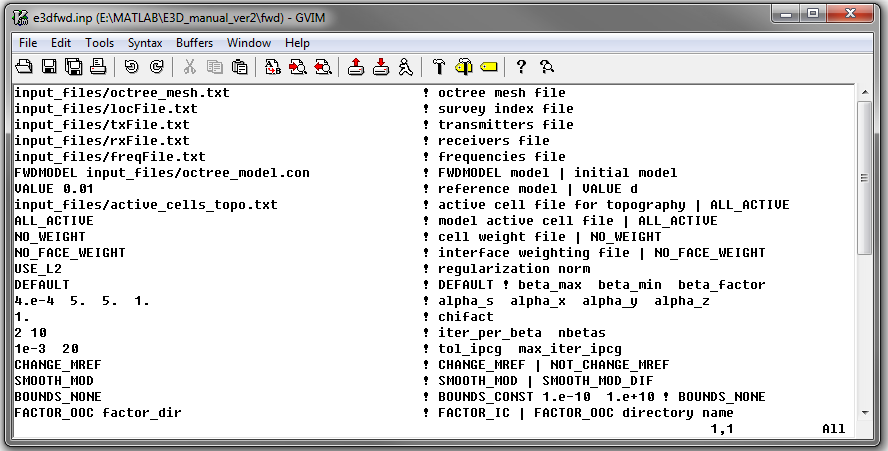
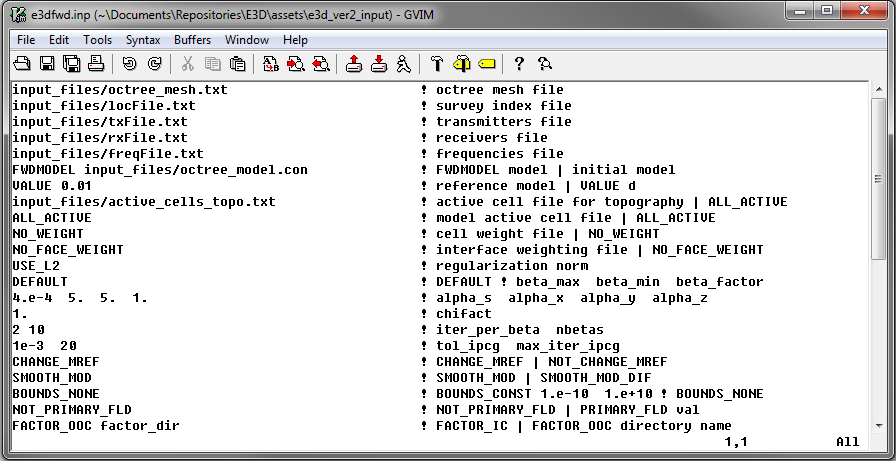
add primary field computation options

Changed region(s): [[0.0, 0.0, 1.0, 1.0], [0.152, 0.6519, 0.1824, 0.6829]]

diff --git a/content/inputfiles/inversion.rst b/content/inputfiles/inversion.rst
@@ -12,45 +12,47 @@ Both the forward and inverse problems are solved using the **e3d_v2.exe** execut
 +========+==============================================================+=========================================================================+
 | 1      |:ref:`Inversion Mesh<e3d_input_inv2_ln1>`                     | path to inversion mesh file                                             |
 +--------+--------------------------------------------------------------+-------------------------------------------------------------------------+
-| 2      |:ref:`Observations File<e3d_input_inv2_ln3>`                  | path to observations file                                               |
+| 2      |:ref:`Observations File<e3d_input_inv2_ln2>`                  | path to observations file                                               |
 +--------+--------------------------------------------------------------+-------------------------------------------------------------------------+
-| 3      |:ref:`Transmitters File<e3d_input_inv2_ln4>`                  | path to transmitters file                                               |
+| 3      |:ref:`Transmitters File<e3d_input_inv2_ln3>`                  | path to transmitters file                                               |
 +--------+--------------------------------------------------------------+-------------------------------------------------------------------------+
-| 4      |:ref:`Receivers File<e3d_input_inv2_ln5>`                     | path to receivers file                                                  |
+| 4      |:ref:`Receivers File<e3d_input_inv2_ln4>`                     | path to receivers file                                                  |
 +--------+--------------------------------------------------------------+-------------------------------------------------------------------------+
-| 5      |:ref:`Frequencies File<e3d_input_inv2_ln6>`                   | path to frequencies file                                                |
+| 5      |:ref:`Frequencies File<e3d_input_inv2_ln5>`                   | path to frequencies file                                                |
 +--------+--------------------------------------------------------------+-------------------------------------------------------------------------+
-| 6      |:ref:`Initial/FWD Model<e3d_input_inv2_ln7>`                  | initial model/forward model                                             |
+| 6      |:ref:`Initial/FWD Model<e3d_input_inv2_ln6>`                  | initial model/forward model                                             |
 +--------+--------------------------------------------------------------+-------------------------------------------------------------------------+
-| 7      |:ref:`Reference Model<e3d_input_inv2_ln8>`                    | reference model                                                         |
+| 7      |:ref:`Reference Model<e3d_input_inv2_ln7>`                    | reference model                                                         |
 +--------+--------------------------------------------------------------+-------------------------------------------------------------------------+
-| 8      |:ref:`Active Topography Cells<e3d_input_inv2_ln9>`            | topography                                                              |
+| 8      |:ref:`Active Topography Cells<e3d_input_inv2_ln8>`            | topography                                                              |
 +--------+--------------------------------------------------------------+-------------------------------------------------------------------------+
-| 9      |:ref:`Active Model Cells<e3d_input_inv2_ln10>`                | active model cells                                                      |
+| 9      |:ref:`Active Model Cells<e3d_input_inv2_ln9>`                 | active model cells                                                      |
 +--------+--------------------------------------------------------------+-------------------------------------------------------------------------+
-| 10     |:ref:`Cell Weights<e3d_input_inv2_ln11>`                      | additional cell weights                                                 |
+| 10     |:ref:`Cell Weights<e3d_input_inv2_ln10>`                      | additional cell weights                                                 |
 +--------+--------------------------------------------------------------+-------------------------------------------------------------------------+
-| 11     |:ref:`Face Weights<e3d_input_inv2_ln12>`                      | additional face weights                                                 |
+| 11     |:ref:`Face Weights<e3d_input_inv2_ln11>`                      | additional face weights                                                 |
 +--------+--------------------------------------------------------------+-------------------------------------------------------------------------+
-| 12     |:ref:`Norm Sparseness<e3d_input_inv2_ln13>`                   | set parameters to recover smooth, sparse or blocky models               |
+| 12     |:ref:`Norm Sparseness<e3d_input_inv2_ln12>`                   | set parameters to recover smooth, sparse or blocky models               |
 +--------+--------------------------------------------------------------+-------------------------------------------------------------------------+
-| 13     |:ref:`beta_max beta_min beta_factor<e3d_input_inv2_ln14>`     | cooling schedule for beta parameter                                     |
+| 13     |:ref:`beta_max beta_min beta_factor<e3d_input_inv2_ln13>`     | cooling schedule for beta parameter                                     |
 +--------+--------------------------------------------------------------+-------------------------------------------------------------------------+
-| 14     |:ref:`alpha_s alpha_x alpha_y alpha_z<e3d_input_inv2_ln15>`   | weighting constants for smallness and smoothness constraints            |
+| 14     |:ref:`alpha_s alpha_x alpha_y alpha_z<e3d_input_inv2_ln14>`   | weighting constants for smallness and smoothness constraints            |
 +--------+--------------------------------------------------------------+-------------------------------------------------------------------------+
-| 15     |:ref:`Chi Factor<e3d_input_inv2_ln16>`                        | stopping criteria for inversion                                         |
+| 15     |:ref:`Chi Factor<e3d_input_inv2_ln15>`                        | stopping criteria for inversion                                         |
 +--------+--------------------------------------------------------------+-------------------------------------------------------------------------+
-| 16     |:ref:`iter_per_beta nBetas<e3d_input_inv2_ln17>`              | set the number of Gauss-Newton iteration for each beta value            |
+| 16     |:ref:`iter_per_beta nBetas<e3d_input_inv2_ln16>`              | set the number of Gauss-Newton iteration for each beta value            |
 +--------+--------------------------------------------------------------+-------------------------------------------------------------------------+
-| 17     |:ref:`tol_ipcg max_iter_ipcg<e3d_input_inv2_ln18>`            | set the tolerance and number of iterations for Gauss-Newton solve       |
+| 17     |:ref:`tol_ipcg max_iter_ipcg<e3d_input_inv2_ln17>`            | set the tolerance and number of iterations for Gauss-Newton solve       |
 +--------+--------------------------------------------------------------+-------------------------------------------------------------------------+
-| 18     |:ref:`Reference Model Update<e3d_input_inv2_ln19>`            | reference model                                                         |
+| 18     |:ref:`Reference Model Update<e3d_input_inv2_ln18>`            | reference model                                                         |
 +--------+--------------------------------------------------------------+-------------------------------------------------------------------------+
-| 29     |:ref:`Hard Constraints<e3d_input_inv2_ln20>`                  | use *SMOOTH_MOD* or *SMOOTH_MOD_DIFF*                                   |
+| 19     |:ref:`Hard Constraints<e3d_input_inv2_ln19>`                  | use *SMOOTH_MOD* or *SMOOTH_MOD_DIFF*                                   |
 +--------+--------------------------------------------------------------+-------------------------------------------------------------------------+
-| 20     |:ref:`Bounds<e3d_input_inv2_ln21>`                            | upper and lower bounds for recovered model                              |
+| 20     |:ref:`Bounds<e3d_input_inv2_ln20>`                            | upper and lower bounds for recovered model                              |
 +--------+--------------------------------------------------------------+-------------------------------------------------------------------------+
-| 21     |:ref:`Memory Options<e3d_input_inv2_ln23>`                    | options for storing factorizations of forward system (RAM vs disk)      |
+| 21     |:ref:`Primary Field Computation Options <e3d_input_inv2_ln21>`| options for storing computing primary field in free space or full space |
++--------+--------------------------------------------------------------+-------------------------------------------------------------------------+
+| 22     |:ref:`Memory Options<e3d_input_inv2_ln22>`                    | options for storing factorizations of forward system (RAM vs disk)      |
 +--------+--------------------------------------------------------------+-------------------------------------------------------------------------+
 
 
@@ -69,23 +71,23 @@ Line Descriptions
 
     - **Inversion Mesh:** file path to the :ref:`inversion (OcTree) mesh file<octreeFile>`
 
-.. _e3d_input_inv2_ln3:
+.. _e3d_input_inv2_ln2:
 
     - **Observation File:** file path to the :ref:`observed data file<obsFile>`
 
-.. _e3d_input_inv2_ln4:
+.. _e3d_input_inv2_ln3:
 
     - **Transmitter File:** file path to the :ref:`transmitter file<receiverFile>`
 
-.. _e3d_input_inv2_ln5:
+.. _e3d_input_inv2_ln4:
 
     - **Receiver File:** file path to the :ref:`receiver file<receiverFile>`
 
-.. _e3d_input_inv2_ln6:
+.. _e3d_input_inv2_ln5:
 
     - **Frequencies File:** file path to the :ref:`frequencies file<freqFile>`
 
-.. _e3d_input_inv2_ln7:
+.. _e3d_input_inv2_ln6:
 
     - **Initial/FWD Model:** On this line we specify either the starting model for the inversion or the conductivity model for the forward modeling. On this line, there are 3 possible options:
 
@@ -99,28 +101,28 @@ Line Descriptions
     If data are only being forward modeled, only the :ref:`active topography cells<e3d_input_inv2_ln7>` and :ref:`tol_ipcg max_iter_ipcg<e3d_input_inv2_ln16>` fields are relevant. **However**, the remaining fields must **not** be empty and must have correct syntax for the code to run.
 
 
-.. _e3d_input_inv2_ln8:
+.. _e3d_input_inv2_ln7:
 
     - **Reference Model:** The user may supply the file path to a reference conductivity model. If a homogeneous conductivity value is being used for all active cells, the user can enter "VALUE" followed by a space and a numerical value; example "VALUE 0.01".
 
 
-.. _e3d_input_inv2_ln9:
+.. _e3d_input_inv2_ln8:
 
     - **Active Topography Cells:** Here, the user can choose to specify the cells which lie below the surface topography. To do this, the user may supply the file path to an active cells model file or type "ALL_ACTIVE". The active cells model has values 1 for cells lying below the surface topography and values 0 for cells lying above.
 
-.. _e3d_input_inv2_ln10:
+.. _e3d_input_inv2_ln9:
 
     - **Active Model Cells:** Here, the user can choose to specify the model cells which are active during the inversion. To do this, the user may supply the file path to an active cells model file or type "ALL_ACTIVE". The active cells model has values 1 for cells lying below the surface topography and values 0 for cells lying above. Values for inactive cells are provided by the background conductivity model.
 
-.. _e3d_input_inv2_ln11:
+.. _e3d_input_inv2_ln10:
 
     - **Cell Weights:** Here, the user specifies whether cell weights are supplied. If so, the user provides the file path to a :ref:`cell weights file <weightsFile>`  If no additional cell weights are supplied, the user enters "NO_WEIGHT".
 
-.. _e3d_input_inv2_ln12:
+.. _e3d_input_inv2_ln11:
 
     - **Face Weights:** Here, the user specifies whether face weights are supplied. If so, the user provides the file path to a face weights file :ref:`cell weights file <weightsFile>`. If no additional cell weights are supplied, the user enters "NO_FACE_WEIGHT". The user may also enter "EKBLOM" for 1-norm approximation to recover sharper edges.
 
-.. _e3d_input_inv2_ln13:
+.. _e3d_input_inv2_ln12:
 
     - **Sparseness:** The sparseness of the recovered model is determined by the terms within the `model objective function <http://giftoolscookbook.readthedocs.io/en/latest/content/fundamentals/Norms.html>`__ . A standard approach is to use an L2-norm for all terms
 
@@ -133,39 +135,43 @@ Line Descriptions
 
 
 
-.. _e3d_input_inv2_ln14:
+.. _e3d_input_inv2_ln13:
 
     - **beta_max beta_min beta_factor:** Here, the user specifies protocols for the trade-off parameter (beta). *beta_max* is the initial value of beta. *beta_min* is generally used to denote the minimum allowable trade-off parameter the program can use before quitting. For this code however, the minimum beta is determined through the *nBeta* parameter on :ref:`line 15 <e3d_input_inv2_ln15>` and the *beta_min* parameter has no function. *beta_factor* defines the factor by which beta is decreased at each iteration; example "1E4 10 0.2". The user may also enter "DEFAULT" if they wish to have beta calculated automatically. See theory on :ref:`cooling schedule <theory_cooling>`.
 
-.. _e3d_input_inv2_ln15:
+.. _e3d_input_inv2_ln14:
 
     - **alpha_s alpha_x alpha_y alpha_z:** `Alpha parameters <http://giftoolscookbook.readthedocs.io/en/latest/content/fundamentals/Alphas.html>`__ . Here, the user specifies the relative weighting between the smallness and smoothness component penalties on the recovered models.
 
-.. _e3d_input_inv2_ln16:
+.. _e3d_input_inv2_ln15:
 
     - **Chi Factor:** The chi factor defines the target misfit for the inversion. A chi factor of 1 means the target misfit is equal to the total number of data observations. For more, see the `GIFtools cookbook <http://giftoolscookbook.readthedocs.io/en/latest/content/fundamentals/Beta.html>`__ .
 
-.. _e3d_input_inv2_ln17:
+.. _e3d_input_inv2_ln16:
 
     - **iter_per_beta nBetas:** Here, *iter_per_beta* is the number of Gauss-Newton iterations per beta value. *nBetas* is the number of times the inverse problem is solved for smaller and smaller trade-off parameters until it quits. See theory section for :ref:`cooling schedule <theory_cooling>` and :ref:`Gauss-Newton update <theory_GN>`.
 
-.. _e3d_input_inv2_ln18:
+.. _e3d_input_inv2_ln17:
 
     - **tol_ipcg max_iter_ipcg:** Here, the user specifies solver parameters. *tol_ipcg* defines how well the iterative solver does when solving for :math:`\delta m` and *max_iter_ipcg* is the maximum iterations of incomplete-preconditioned-conjugate gradient. See theory on :ref:`Gauss-Newton solve <theory_IPCG>`
 
-.. _e3d_input_inv2_ln19:
+.. _e3d_input_inv2_ln18:
 
     - **Reference Model Update:** Here, the user specifies whether the reference model is updated at each inversion step result. If so, enter "CHANGE_MREF". If not, enter "NOT_CHANGE_MREF".
 
-.. _e3d_input_inv2_ln20:
+.. _e3d_input_inv2_ln19:
 
     - **Hard Constraints:** SMOOTH_MOD runs the inversion without implementing a reference model (essential :math:`m_{ref}=0`). "SMOOTH_MOD_DIF" constrains the inversion in the smallness and smoothness terms using a reference model.
 
-.. _e3d_input_inv2_ln21:
+.. _e3d_input_inv2_ln20:
 
     - **Bounds:** Bound constraints on the recovered model. Choose "BOUNDS_CONST" and enter the values of the minimum and maximum model conductivity; example "BOUNDS_CONST 1E-6 0.1". Enter "BOUNDS_NONE" if the inversion is unbounded, or if there is no a-prior information about the subsurface model.
 
-.. _e3d_input_inv2_ln23:
+.. _e3d_input_inv_ln21:
+
+    - **Primary Field Options:** If the flag "NOT_PRIMARY_FLD" is used, then a free-space computation is done to obtain the source term in Maxwell's equations. If "PRIMARY_FLD" is used followed by a numerical value, the source term is obtained by computing the primary field in a homogeneous medium. The latter option is advised when doing borehole EM surveys.
+
+.. _e3d_input_inv2_ln22:
 
     - **Memory Options:** This code uses a factorization to solve the forward system at each frequency. These factorizations must be stored. By using the flag 'FACTOR_IC' (in cpu), factorizations are stored within a computer's RAM. Although this is faster, larger problems cannot be solved if insufficient temporary memory is available. The factorizations are stored in permanent memory (disk) if the flag 'FACTOR_OOC' (out of cpu) is used followed by the path to a directory. This is slower because the program must read these files many times. The second options is ill-advised if files are being transferred over a network.
 
